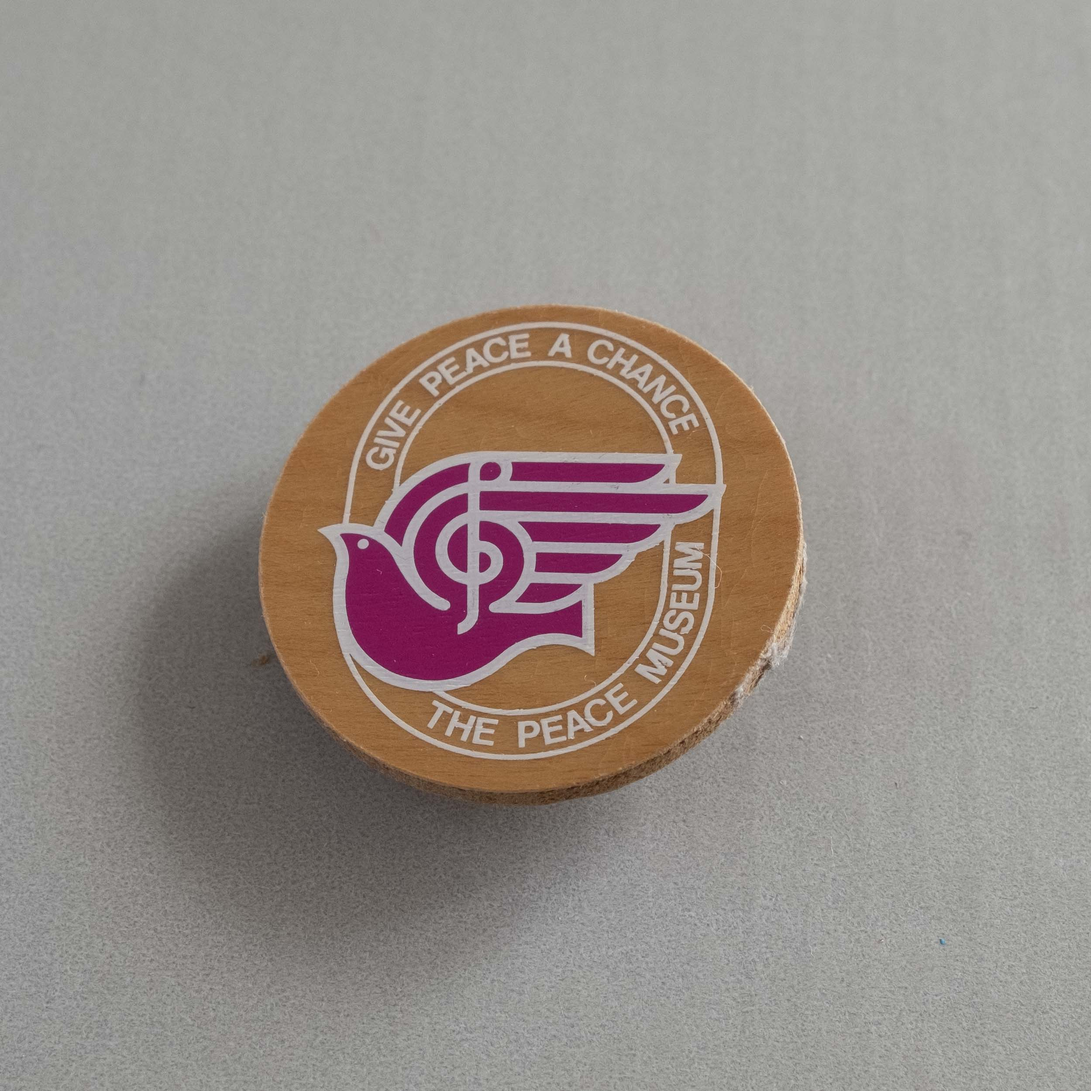
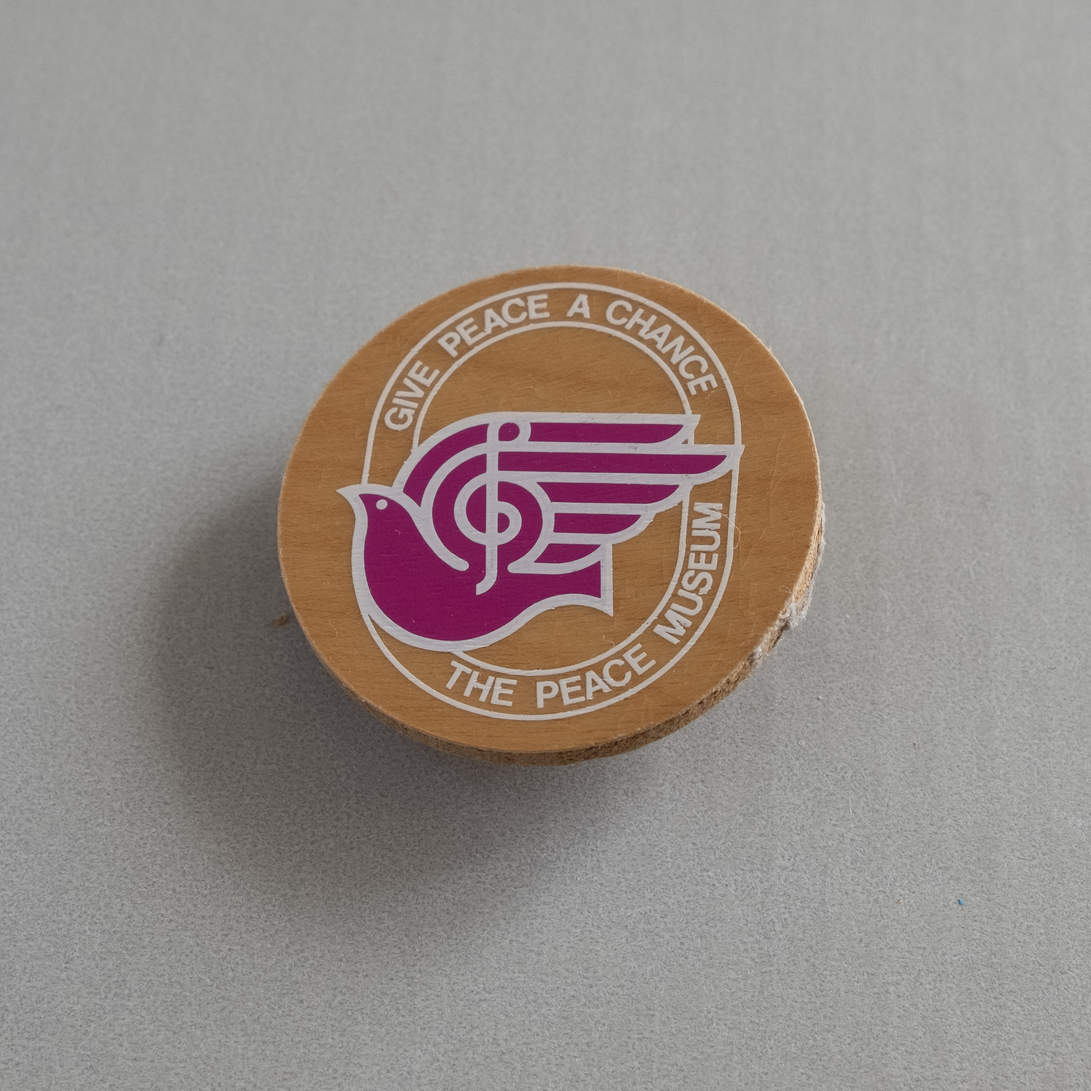
Knappar

diff --git a/docs/buttons.html b/docs/buttons.html
@@ -209,7 +209,7 @@
 
                <div class="row">
                   <div class="col-sm-6">
-                    <img class="img-full" src="knappar/Pins_IKFF_008_Givepeaceachance_20240409.jpg" title="Give Peace a Chance" alt="&#xA;  Fotografi av framsidan av pin.&#xA;  "> 
+                     <a href="knappar/Pins_IKFF_008_Givepeaceachance_20240409.jpg"> <img class="img-full" src="knappar/Thumbnails/Thumb_Pins_IKFF_008_Givepeaceachance_20240409.jpg" title="Give Peace a Chance" alt="&#xA;  Fotografi av framsidan av pin.&#xA;  "> </a>
                   </div>
                   <div class="col-sm-6">
    
